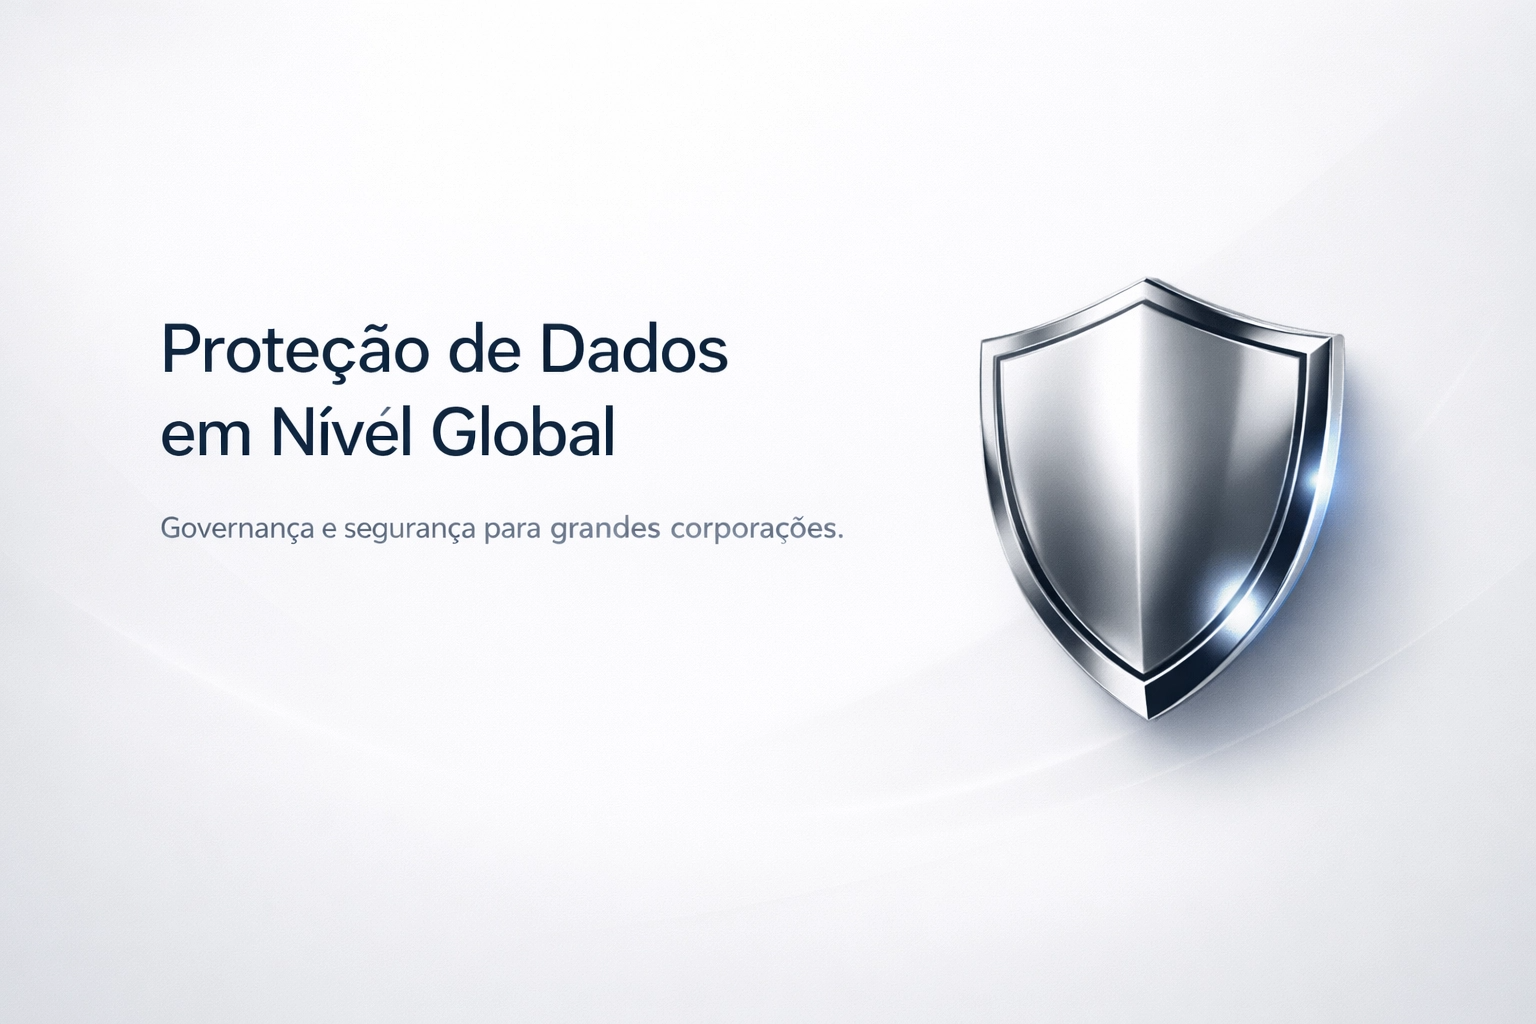
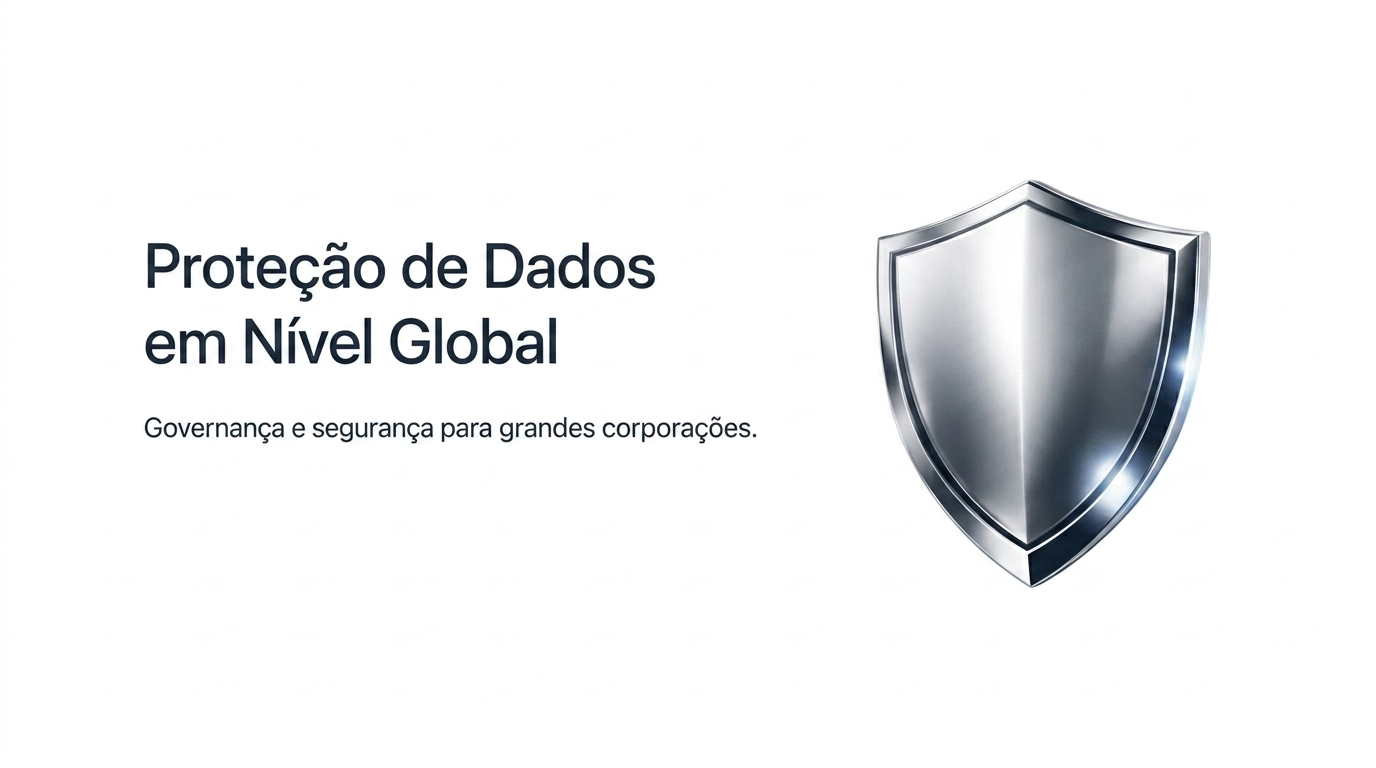
Nova atualização do site

diff --git a/assets/css/style.css b/assets/css/style.css
@@ -389,10 +389,10 @@ nav a:hover {
 }
 .carousel-slide img {
   width: 100%;
-  height: 80vh;
-  max-height: 700px;
-  min-height: 400px;
-  object-fit: cover;
+  height: auto;
+  max-height: 520px;
+  aspect-ratio: 16 / 9;
+  object-fit: contain;
   display: block;
 }
 .carousel-btn {
@@ -430,7 +430,7 @@ nav a:hover {
 }
 .carousel-dots {
   position: absolute;
-  bottom: 20px;
+  bottom: 40px;
   left: 50%;
   transform: translateX(-50%);
   display: flex;
@@ -1228,10 +1228,11 @@ footer .logo { color: white; }
   .carousel-slide img { 
     height: auto; 
     min-height: auto;
-    aspect-ratio: 3/2;
+    aspect-ratio: 16 / 9;
     object-fit: contain; 
-    background-color: #f8fafc; /* Subtle background for clean look */
+    background-color: transparent;
   }
+  .carousel-dots { bottom: 30px; }
 }
 
 /* ===== SIDE CONTACT BUTTON ===== */
